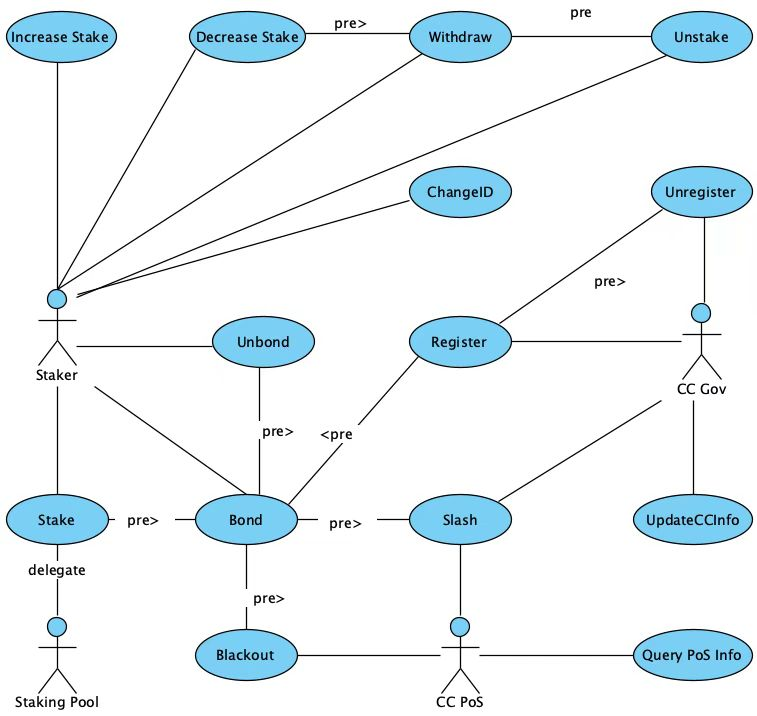
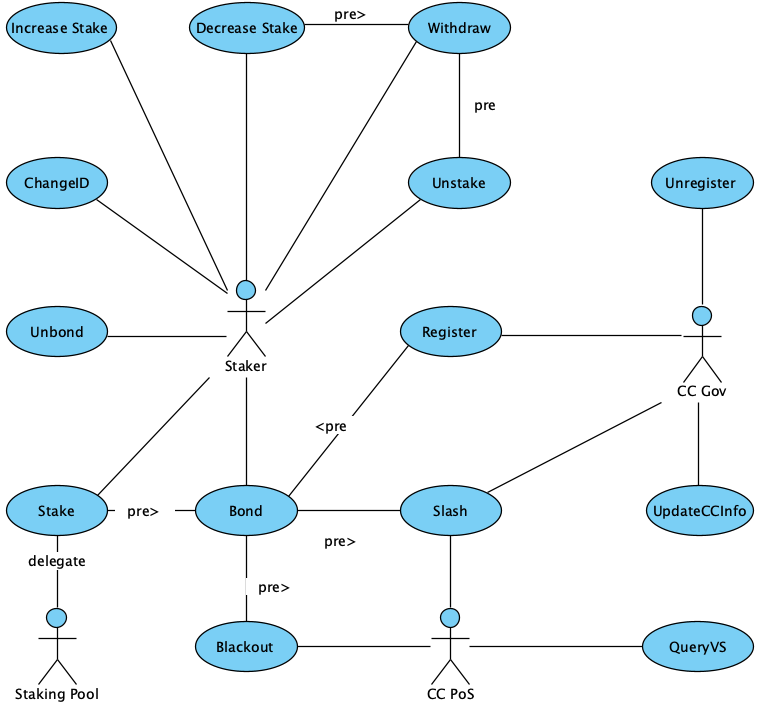
query pos info named to queryVS

diff --git a/README.md b/README.md
@@ -19,7 +19,7 @@ Contents:
         - [Unbond](#unbond)
         - [Blackout](#blackout)
         - [Slash](#slash)
-        - [Query Pos Info](#query-pos-info)
+        - [Query VS](#query-vs)
         - [Unstake](#unstake)
         - [Withdraw](#withdraw)
     - [DataStruct and Interfaces](#datastruct-and-interfaces)
@@ -135,13 +135,13 @@ Rules of executing slash:
 ![](images/submit_slash.png)
 ![](images/do_slash.png)
 
-### Query Pos Info
+### Query VS
 
 In order to update validator set, the `CC Pos` is motivated to query the Restaking Base contract periodically.
 
 The `CC Pos` can specify a `limit` parameter to indicate that it only selects a certain number of Stakers ranked by staking amount. And the CC Pos will still perform an additional filtering based on the Stakers' staking amount to determine if they will become their validator.
 
-![](images/query_restaking.png)
+![](images/queryVS.png)
 
 ### Unstake
 
